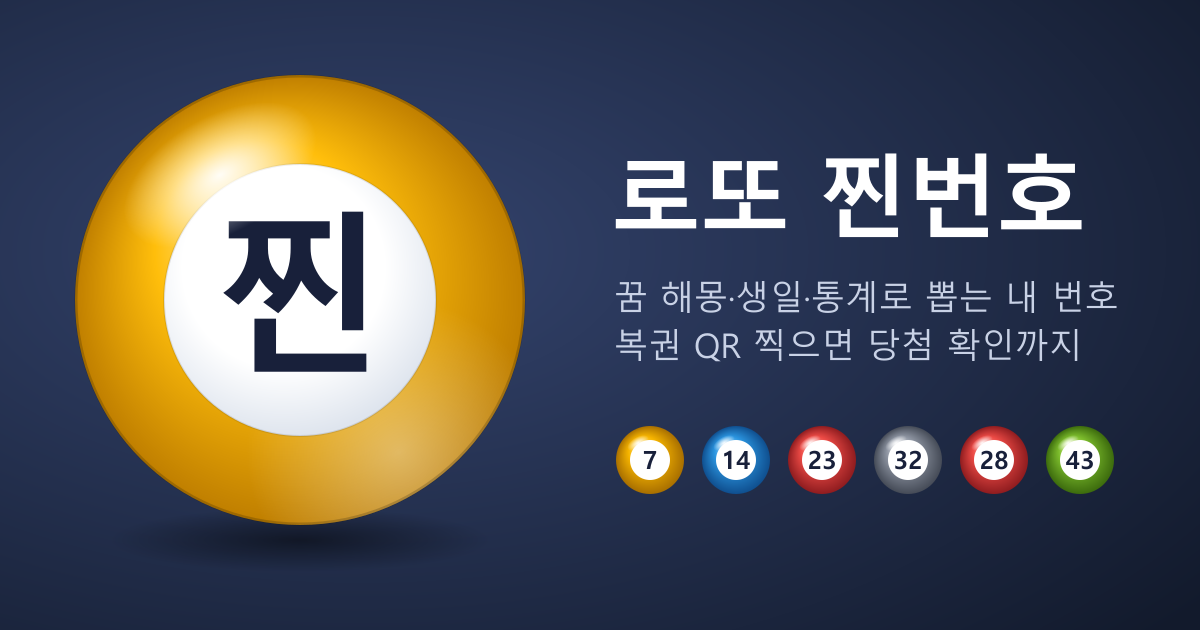
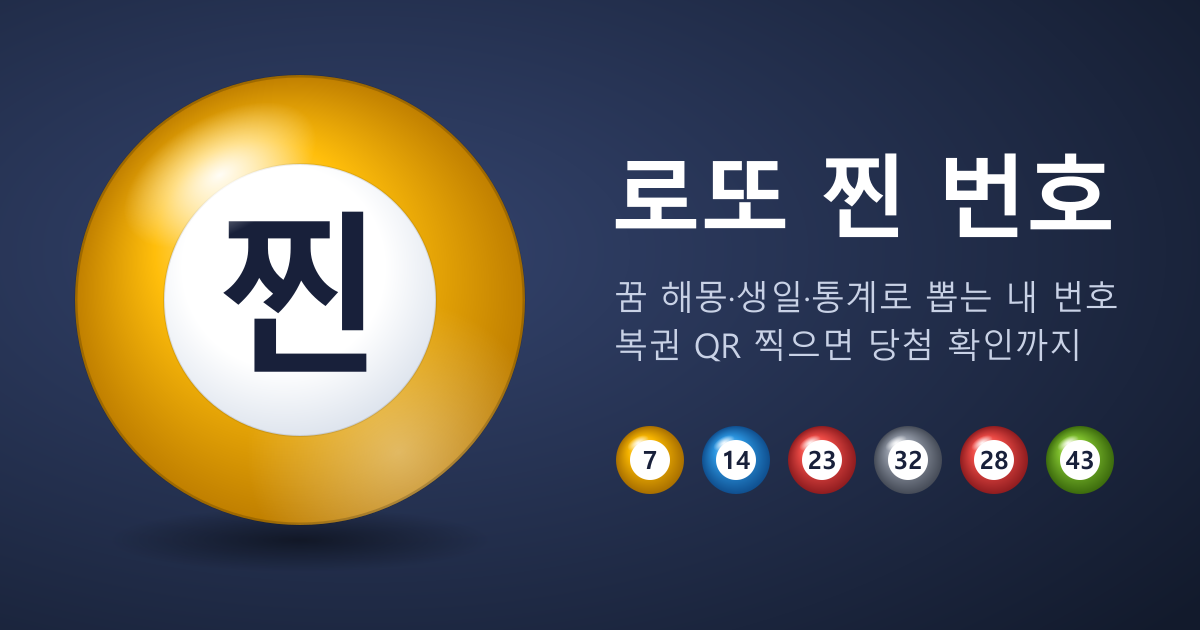
앱 이름을 로또 찐 번호로 띄어 씀 (화면·탭 제목·홈 화면 이름·공유 글·미리보기 그림)

Changed region(s): [[0.74, 0.2413, 0.925, 0.3921]]

diff --git a/seo/pages.ts b/seo/pages.ts
@@ -80,7 +80,7 @@ function layout(o: { title: string; description: string; path: string; root: str
 <link rel="icon" href="${o.root}favicon.svg" type="image/svg+xml" />
 <link rel="apple-touch-icon" href="${o.root}apple-touch-icon.png" />
 <meta property="og:type" content="article" />
-<meta property="og:site_name" content="로또 찐번호" />
+<meta property="og:site_name" content="로또 찐 번호" />
 <meta property="og:locale" content="ko_KR" />
 <meta property="og:url" content="${url}" />
 <meta property="og:title" content="${esc(o.title)}" />
@@ -93,7 +93,7 @@ ${o.jsonLd.map((j) => `<script type="application/ld+json">${JSON.stringify(j)}</
 </head>
 <body>
 <div class="wrap">
-<a class="top" href="${o.root}"><img src="${o.root}icon-192.png" alt="" />로또 찐번호</a>
+<a class="top" href="${o.root}"><img src="${o.root}icon-192.png" alt="" />로또 찐 번호</a>
 ${o.body}
 <p class="foot">해몽과 숫자는 이 사이트가 정한 재미용 해석이에요. 어떤 번호를 골라도 1등 당첨 확률은 8,145,060분의 1로 같습니다.<br />정확한 당첨번호는 동행복권(dhlottery.co.kr)에서 확인하세요.</p>
 </div>
@@ -106,7 +106,7 @@ export function dreamPage(d: Dream): string {
   const root = '../../';
   const nums = d.nums.join(', ');
   const sitNums = d.situations.map((s) => s.num).join(', ');
-  const title = `${d.name} 로또 번호 — ${d.name} 해몽과 행운 숫자 | 로또 찐번호`;
+  const title = `${d.name} 로또 번호 — ${d.name} 해몽과 행운 숫자 | 로또 찐 번호`;
   const description = `${d.name} 해몽: ${d.meaning}. ${d.name}의 상징 숫자 ${nums}와 상황별 숫자로 추첨기를 돌려 로또 번호를 뽑아 보세요.`;
   const same = DREAMS.filter((x) => x.category === d.category && x.id !== d.id);
   const others = DREAM_CATEGORIES.filter((c) => c !== d.category);
@@ -164,7 +164,7 @@ ${faq.map((f) => `<dt>${esc(f.q)}</dt><dd>${esc(f.a)}</dd>`).join('\n')}
         '@context': 'https://schema.org',
         '@type': 'BreadcrumbList',
         itemListElement: [
-          { '@type': 'ListItem', position: 1, name: '로또 찐번호', item: SITE },
+          { '@type': 'ListItem', position: 1, name: '로또 찐 번호', item: SITE },
           { '@type': 'ListItem', position: 2, name: '꿈 해몽 번호', item: `${SITE}dream/` },
           { '@type': 'ListItem', position: 3, name: d.name, item: `${SITE}dream/${d.id}/` },
         ],
@@ -204,7 +204,7 @@ ${DREAMS.filter((d) => d.category === c)
 <a class="cta" href="${root}">🎱 추첨기로 번호 뽑으러 가기</a>
 `;
   return layout({
-    title: `꿈 해몽 로또 번호 모음 — ${DREAMS.length}가지 꿈별 행운 숫자 | 로또 찐번호`,
+    title: `꿈 해몽 로또 번호 모음 — ${DREAMS.length}가지 꿈별 행운 숫자 | 로또 찐 번호`,
     description: `돼지꿈·똥꿈·조상꿈·용꿈 등 ${DREAMS.length}가지 꿈의 해몽과 상황별 행운 숫자. 꿈을 고르면 추첨기로 로또 번호를 뽑아 드려요.`,
     path: 'dream/',
     root,
@@ -224,7 +224,7 @@ ${DREAMS.filter((d) => d.category === c)
 export function homeStaticContent(): string {
   const popular = POPULAR.map((id) => DREAMS.find((d) => d.id === id)!).filter(Boolean);
   return `<div class="seo-static">
-<h1>로또 찐번호 — 로또 번호 생성기</h1>
+<h1>로또 찐 번호 — 로또 번호 생성기</h1>
 <p>어젯밤 꾼 꿈, 생일·전화번호·차량번호, 1회부터 최신 회차까지의 당첨 통계로 로또 번호를 뽑는 무료 로또 번호 생성기예요. 번호는 공기식 추첨기가 돌면서 하나씩 나오고, 숫자마다 왜 나왔는지 알려 드려요.</p>
 <ul>
 <li><b>꿈 해몽 번호</b> — 돼지꿈, 똥꿈, 조상꿈 등 ${DREAMS.length}가지 꿈의 해몽과 행운 숫자</li>

diff --git a/index.html b/index.html
@@ -6,17 +6,17 @@
     <meta name="description" content="꿈 해몽, 생일·차량번호, 역대 통계로 추첨기를 돌려 뽑는 로또 번호. 복권 QR을 찍으면 당첨 확인까지." />
     <!-- 링크 미리보기 (카카오톡·문자·페이스북 등). 이미지 주소는 반드시 전체 주소 -->
     <meta property="og:type" content="website" />
-    <meta property="og:site_name" content="로또 찐번호" />
+    <meta property="og:site_name" content="로또 찐 번호" />
     <meta property="og:locale" content="ko_KR" />
     <meta property="og:url" content="https://limjin1009.github.io/Lotto/" />
-    <meta property="og:title" content="로또 찐번호 — 꿈·생일·통계로 뽑는 내 번호" />
+    <meta property="og:title" content="로또 찐 번호 — 꿈·생일·통계로 뽑는 내 번호" />
     <meta property="og:description" content="어젯밤 꿈, 생일, 역대 당첨 통계로 추첨기를 돌려 번호를 뽑아요. 복권 QR을 찍으면 당첨 확인까지." />
     <meta property="og:image" content="https://limjin1009.github.io/Lotto/og-image.png" />
     <meta property="og:image:width" content="1200" />
     <meta property="og:image:height" content="630" />
-    <meta property="og:image:alt" content="노란 로또 공 안에 '찐' 글자와 로또 찐번호 이름" />
+    <meta property="og:image:alt" content="노란 로또 공 안에 '찐' 글자와 로또 찐 번호 이름" />
     <meta name="twitter:card" content="summary_large_image" />
-    <meta name="twitter:title" content="로또 찐번호 — 꿈·생일·통계로 뽑는 내 번호" />
+    <meta name="twitter:title" content="로또 찐 번호 — 꿈·생일·통계로 뽑는 내 번호" />
     <meta name="twitter:description" content="어젯밤 꿈, 생일, 역대 당첨 통계로 추첨기를 돌려 번호를 뽑아요. 복권 QR을 찍으면 당첨 확인까지." />
     <meta name="twitter:image" content="https://limjin1009.github.io/Lotto/og-image.png" />
     <meta name="theme-color" content="#1f2a44" />
@@ -25,10 +25,10 @@
     <link rel="apple-touch-icon" href="./apple-touch-icon.png" />
     <meta name="apple-mobile-web-app-capable" content="yes" />
     <meta name="mobile-web-app-capable" content="yes" />
-    <meta name="apple-mobile-web-app-title" content="찐번호" />
+    <meta name="apple-mobile-web-app-title" content="로또 찐 번호" />
     <meta name="apple-mobile-web-app-status-bar-style" content="black-translucent" />
     <link rel="stylesheet" href="https://cdn.jsdelivr.net/gh/orioncactus/pretendard@v1.3.9/dist/web/variable/pretendardvariable-dynamic-subset.min.css" />
-    <title>로또 찐번호 — 로또 번호 생성기 · 꿈해몽 번호 · QR 당첨 확인</title>
+    <title>로또 찐 번호 — 로또 번호 생성기 · 꿈해몽 번호 · QR 당첨 확인</title>
   </head>
   <body>
     <div id="root"></div>

diff --git a/src/components/InstallSheet.tsx b/src/components/InstallSheet.tsx
@@ -20,7 +20,7 @@ const STEPS: Record<Exclude<Platform, 'installed'>, { title: string; steps: stri
   },
   ios: {
     title: '아이폰은 Safari에서 이렇게 설치해요',
-    steps: ['아래쪽 가운데 공유 버튼(네모에 위 화살표)을 눌러요', '목록을 내려 "홈 화면에 추가"를 눌러요', '오른쪽 위 "추가"를 누르면 홈 화면에 찐번호 아이콘이 생겨요'],
+    steps: ['아래쪽 가운데 공유 버튼(네모에 위 화살표)을 눌러요', '목록을 내려 "홈 화면에 추가"를 눌러요', '오른쪽 위 "추가"를 누르면 홈 화면에 로또 찐 번호 아이콘이 생겨요'],
   },
   'ios-other': {
     title: '아이폰은 Safari에서 설치할 수 있어요',
@@ -28,7 +28,7 @@ const STEPS: Record<Exclude<Platform, 'installed'>, { title: string; steps: stri
   },
   android: {
     title: '안드로이드는 Chrome에서 이렇게 설치해요',
-    steps: ['오른쪽 위 ⋮ 메뉴를 눌러요', '"앱 설치" 또는 "홈 화면에 추가"를 눌러요', '"설치"를 누르면 홈 화면에 찐번호 아이콘이 생겨요'],
+    steps: ['오른쪽 위 ⋮ 메뉴를 눌러요', '"앱 설치" 또는 "홈 화면에 추가"를 눌러요', '"설치"를 누르면 홈 화면에 로또 찐 번호 아이콘이 생겨요'],
   },
   desktop: {
     title: '휴대폰에서 열어 설치해 주세요',
@@ -53,7 +53,7 @@ export function InstallButton() {
 
   const click = async () => {
     if (canPrompt) {
-      if (await prompt()) toast('홈 화면에 찐번호를 설치했어요');
+      if (await prompt()) toast('홈 화면에 로또 찐 번호를 설치했어요');
       return;
     }
     setOpen(true);

diff --git a/src/components/ResultCard.tsx b/src/components/ResultCard.tsx
@@ -6,7 +6,7 @@ import { Ball, BallRow } from './Ball';
 import { PushCard } from './PushCard';
 
 export function shareText(r: GenResult): string {
-  return `${r.emoji} ${r.title}\n${r.numbers.join('  ')}\n\n로또 찐번호에서 ${METHOD_LABEL[r.method]}(으)로 만든 번호예요 (재미로 보는 번호)\n${location.href.split('#')[0]}`;
+  return `${r.emoji} ${r.title}\n${r.numbers.join('  ')}\n\n로또 찐 번호에서 ${METHOD_LABEL[r.method]}(으)로 만든 번호예요 (재미로 보는 번호)\n${location.href.split('#')[0]}`;
 }
 
 export async function share(r: GenResult, toast: (m: string) => void) {
@@ -77,7 +77,7 @@ export function ResultCard({ result, index, expanded = true }: Props) {
 
 function slipText(list: GenResult[]): string {
   const rows = list.map((r, i) => `${String.fromCharCode(65 + i)}  ${r.numbers.map((n) => String(n).padStart(2, ' ')).join('  ')}  ${r.emoji}`);
-  return `🎱 로또 찐번호 ${list.length}게임\n${rows.join('\n')}\n\n재미로 보는 번호예요\n${location.href.split('#')[0]}`;
+  return `🎱 로또 찐 번호 ${list.length}게임\n${rows.join('\n')}\n\n재미로 보는 번호예요\n${location.href.split('#')[0]}`;
 }
 
 /** 여러 게임: 복권 용지처럼 한 장에 한 줄씩. 줄을 누르면 번호가 나온 이유가 펼쳐진다. */

diff --git a/public/sw.js b/public/sw.js
@@ -1,4 +1,4 @@
-// 로또 찐번호 서비스 워커: 한 번 연 화면은 인터넷이 없어도 열리게 저장해 둔다.
+// 로또 찐 번호 서비스 워커: 한 번 연 화면은 인터넷이 없어도 열리게 저장해 둔다.
 // - 화면(HTML): 인터넷 먼저 (브라우저 저장본도 건너뛰고 사이트에 새 버전을 물어봄), 안 되면 저장본
 // - 같은 사이트의 파일(JS·CSS·아이콘): 저장본 먼저 (파일 이름에 버전이 붙어 있음)
 // - 다른 사이트(당첨번호 데이터, 글꼴): 건드리지 않음
@@ -62,7 +62,7 @@ const API = 'https://lotto-reviews.lottojjin.workers.dev';
 self.addEventListener('push', (e) => {
   e.waitUntil(
     (async () => {
-      let msg = { title: '🎉 로또 찐번호', body: '저장한 번호의 추첨 결과가 나왔어요. 눌러서 확인해 보세요.', url: '#/saved' };
+      let msg = { title: '🎉 로또 찐 번호', body: '저장한 번호의 추첨 결과가 나왔어요. 눌러서 확인해 보세요.', url: '#/saved' };
       try {
         const sub = await self.registration.pushManager.getSubscription();
         if (sub) {

diff --git a/src/components/ShareAppButton.tsx b/src/components/ShareAppButton.tsx
@@ -1,7 +1,7 @@
 import { useApp } from '../app-context';
 import { SITE_URL } from '../lib/config';
 
-export const SHARE_APP_TEXT = '🎱 로또 찐번호: 꿈·소원·통계로 재미 삼아 로또 번호를 뽑아 보고, QR로 당첨도 확인해요. 무료예요!';
+export const SHARE_APP_TEXT = '🎱 로또 찐 번호: 꿈·소원·통계로 재미 삼아 로또 번호를 뽑아 보고, QR로 당첨도 확인해요. 무료예요!';
 
 /** 오른쪽 위 "친구에게 알려주기": 휴대폰 공유 창(카톡 등), 안 되면 주소 복사 */
 export function ShareAppButton() {
@@ -10,7 +10,7 @@ export function ShareAppButton() {
   const click = async () => {
     try {
       if (navigator.share) {
-        await navigator.share({ title: '로또 찐번호', text: SHARE_APP_TEXT, url: SITE_URL });
+        await navigator.share({ title: '로또 찐 번호', text: SHARE_APP_TEXT, url: SITE_URL });
         return;
       }
     } catch (e) {

diff --git a/src/components/SupportButton.tsx b/src/components/SupportButton.tsx
@@ -27,7 +27,7 @@ export function SupportButton() {
               </div>
               <h2 id="support-title">개발자 응원하기</h2>
               <p className="muted-text">
-                로또 찐번호는 광고 없이 무료로 운영돼요. 쓰면서 즐거우셨다면 커피 한 잔으로, 당첨되셨다면 크게 응원해 주세요^^ 응원하지 않아도 모든 기능은 똑같이 쓸 수 있어요.
+                로또 찐 번호는 광고 없이 무료로 운영돼요. 쓰면서 즐거우셨다면 커피 한 잔으로, 당첨되셨다면 크게 응원해 주세요^^ 응원하지 않아도 모든 기능은 똑같이 쓸 수 있어요.
               </p>
               <div className="sheet-actions">
                 <a className="btn btn-kakaopay" href={SUPPORT_KAKAOPAY_URL} target="_blank" rel="noopener noreferrer">

diff --git a/src/pages/CheckPage.tsx b/src/pages/CheckPage.tsx
@@ -147,7 +147,7 @@ function ReviewForm({ ticket, ranks }: { ticket: Ticket; ranks: number[] }) {
   const [error, setError] = useState('');
 
   const chosen = ticket.games.find((g) => g.label === game)!;
-  // 찐번호에서 뽑아 번호함에 저장해 둔 번호면 어떤 방식으로 뽑았는지 같이 올림
+  // 로또 찐 번호에서 뽑아 번호함에 저장해 둔 번호면 어떤 방식으로 뽑았는지 같이 올림
   const fromApp = saved.find((s) => s.method !== 'ticket' && isSameSet(s.numbers, chosen.nums));
   const method = fromApp ? `${METHOD_LABEL[fromApp.method]}(으)로 뽑은 번호 · ${fromApp.title}`.slice(0, 60) : null;
 

diff --git a/src/pages/HomePage.tsx b/src/pages/HomePage.tsx
@@ -279,7 +279,7 @@ export function HomePage() {
         <div className="machine-title">
           {running && current
             ? `${current.emoji} ${current.title}${batch.current.list.length > 1 ? ` · ${gameNo}/${batch.current.list.length}게임` : ''}`
-            : '로또 찐번호 추첨기'}
+            : '로또 찐 번호 추첨기'}
         </div>
         <DrawMachine apiRef={api} />
         <div className="tray" aria-live="polite">

diff --git a/vite.config.ts b/vite.config.ts
@@ -11,7 +11,7 @@ function seoPages(): Plugin {
       const jsonLd = {
         '@context': 'https://schema.org',
         '@type': 'WebApplication',
-        name: '로또 찐번호',
+        name: '로또 찐 번호',
         url: SITE,
         applicationCategory: 'EntertainmentApplication',
         operatingSystem: 'Android, iOS, Windows, macOS',

diff --git a/src/App.tsx b/src/App.tsx
@@ -45,7 +45,7 @@ export function App() {
       <header className="topbar">
         <a href="#/" className="brand">
           <img src="./icon-192.png" alt="" className="brand-icon" />
-          로또 찐번호
+          로또 찐 번호
         </a>
         <div className="topbar-actions">
           <InstallButton />

diff --git a/docs/기획서.md b/docs/기획서.md
@@ -1,4 +1,4 @@
-# 로또 번호 생성기 웹앱 기획서 — 로또 찐번호
+# 로또 번호 생성기 웹앱 기획서 — 로또 찐 번호
 
 ## 핵심 방향
 
@@ -148,3 +148,4 @@
 | 2026-11-03 | 당첨 알림을 3차에서 1차로 앞당김 (누나 요청): 내 번호함에 저장한 번호가 5등 이상 당첨되면 휴대폰 알림 + 후기 남기기 안내. 웹 푸시(VAPID, 내용 없는 알림 → 서비스 워커가 문구를 가져감), Cloudflare 정해진 시간 실행 |
 | 2026-11-03 | 오른쪽 위에 "📤 친구 공유" 버튼 (누나 요청): 휴대폰 공유 창(카톡 등)으로 앱 주소를 보내고, 공유 창이 없으면 주소 복사 |
 | 2026-11-03 | 화면 맨 아래 "☕ 개발자 응원하기" (누나 요청): 누르면 안내 창 + 카카오페이 송금 링크. 자발적 응원만, 계좌번호는 화면에 쓰지 않음. 문구는 누나 요청대로 "커피 한 잔으로, 당첨되셨다면 크게 응원해 주세요^^" |
+| 2026-11-04 | 앱 이름을 "로또 찐번호" → "로또 찐 번호"로 띄어 씀 (누나 요청). 화면 위, 탭 제목, 홈 화면 아이콘 이름, 공유 글, 링크 미리보기 그림 모두 바꿈 |
